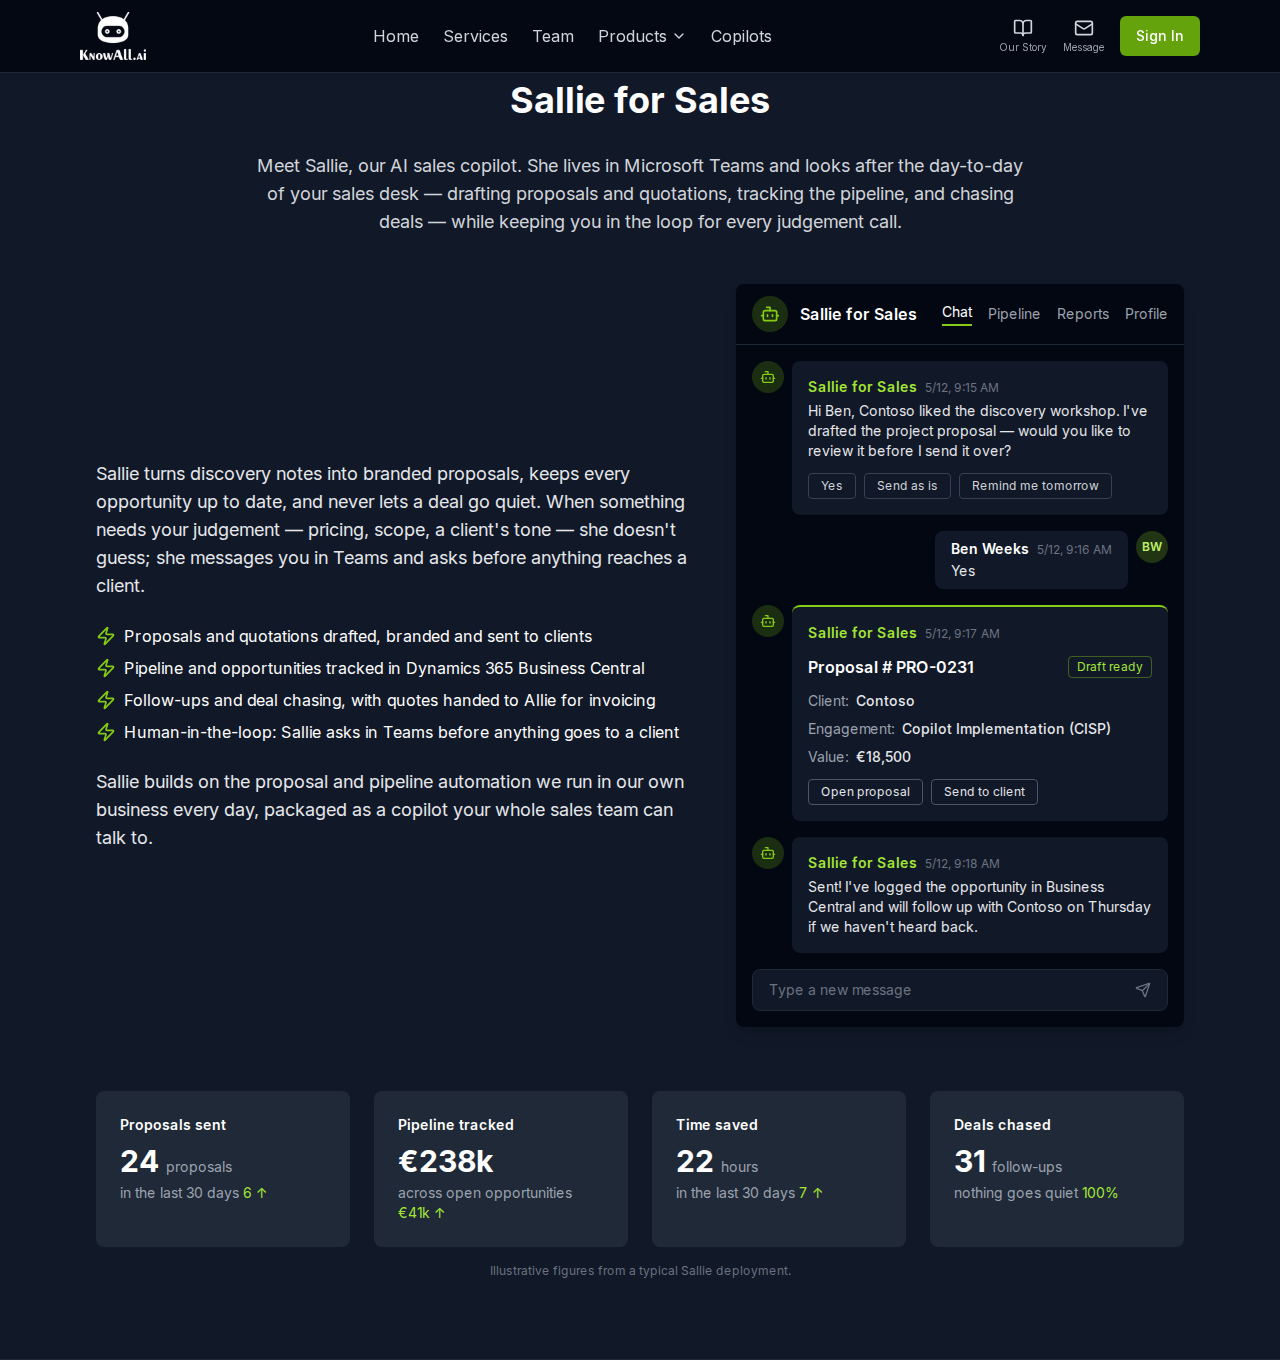
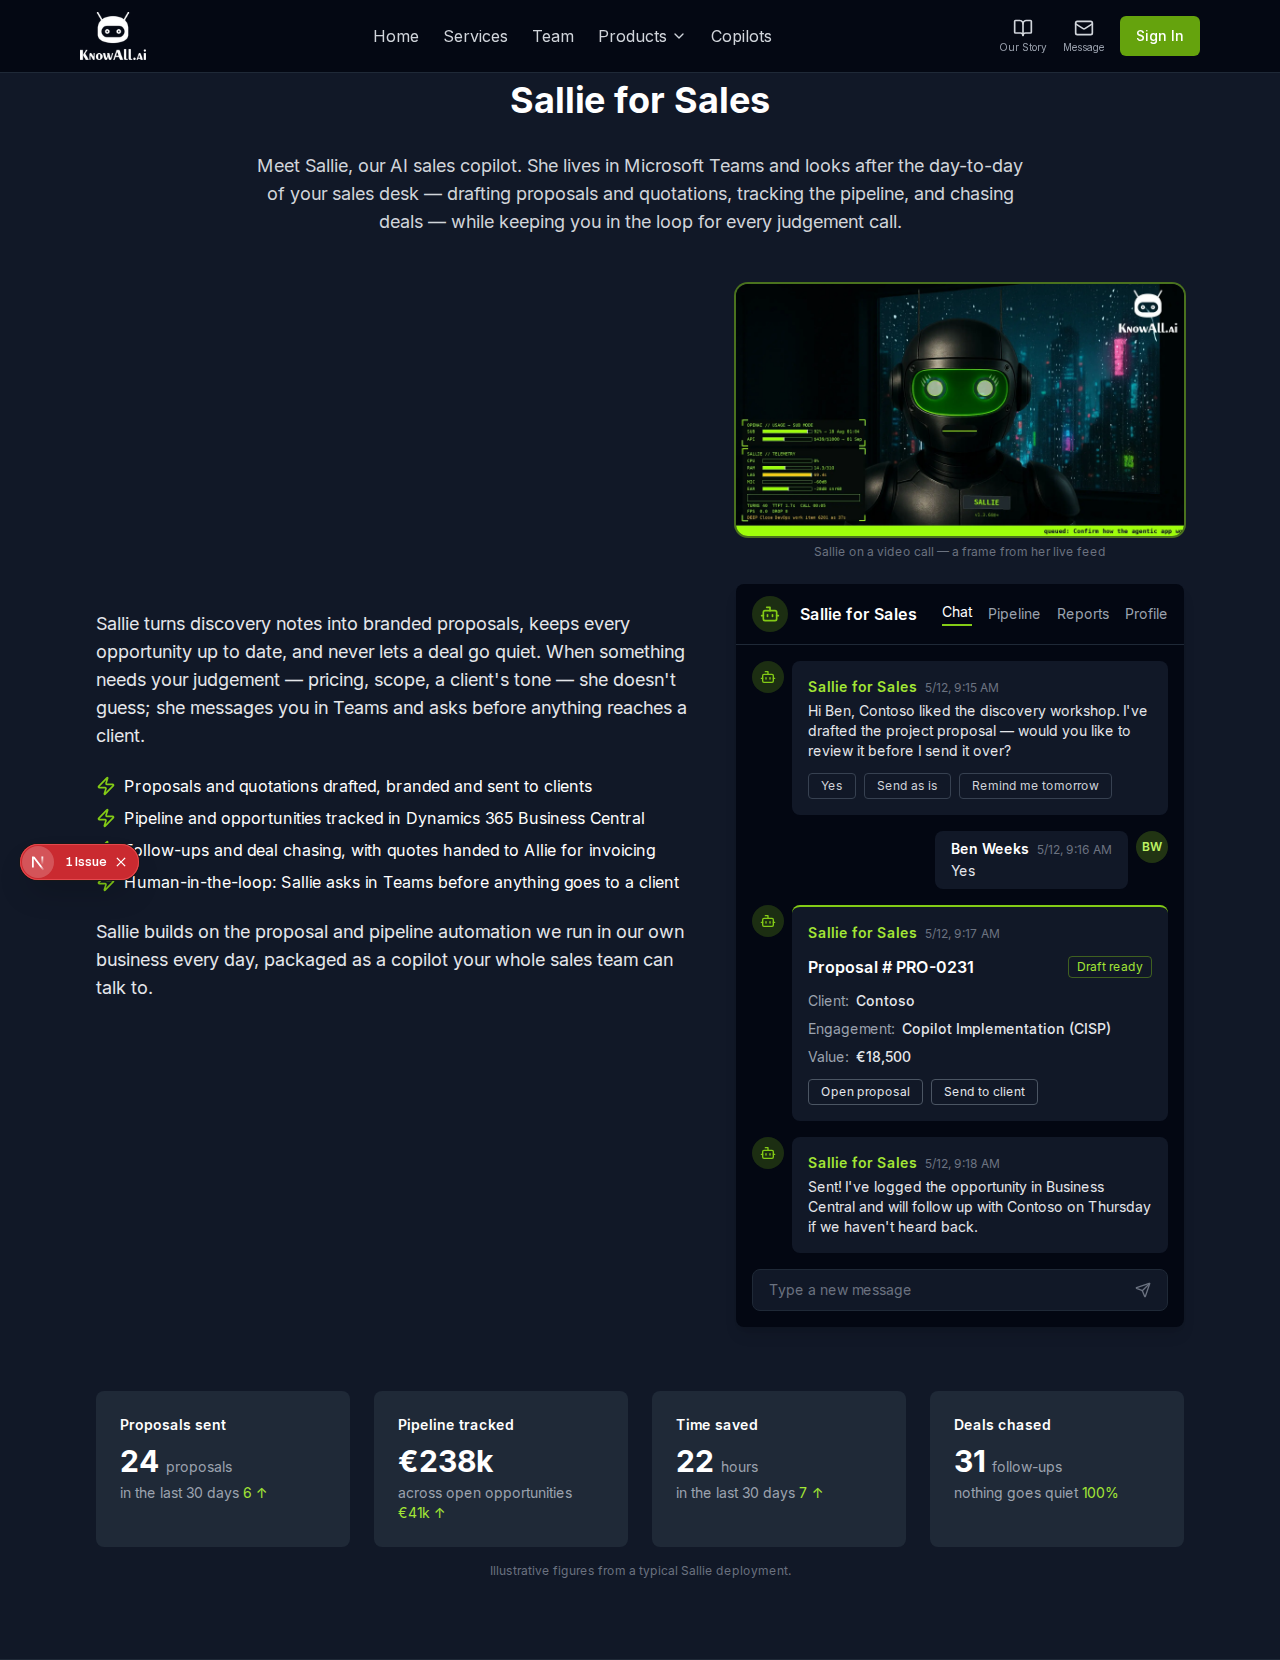
feat: add Sallie's video-call still to the Sallie for Sales section
A real frame from Sallie's avatar renderer (v1.3.680) above the Teams
mockup, per Ben — rounded with the lime ring, captioned as her live feed.

Claude-Session: https://claude.ai/code/session_01UzJ7i2xhbqKdiKk7eGYZvx

diff --git a/app/page.tsx b/app/page.tsx
@@ -596,6 +596,18 @@ export default function Home() {
             </div>
 
             <div className="flex-1 w-full max-w-md">
+              <figure className="mb-6">
+                <Image
+                  src="/images/sallie-video-call.jpg"
+                  alt="Sallie on a video call — her avatar with live telemetry panels"
+                  width={1920}
+                  height={1080}
+                  className="w-full h-auto rounded-xl ring-2 ring-lime-500/50"
+                />
+                <figcaption className="text-xs text-gray-500 mt-2 text-center">
+                  Sallie on a video call &mdash; a frame from her live feed
+                </figcaption>
+              </figure>
               <p className="sr-only">
                 Illustration of a Microsoft Teams chat where Sallie asks Ben to approve a proposal
                 for Contoso, Ben approves it, and Sallie sends it and logs the opportunity.
